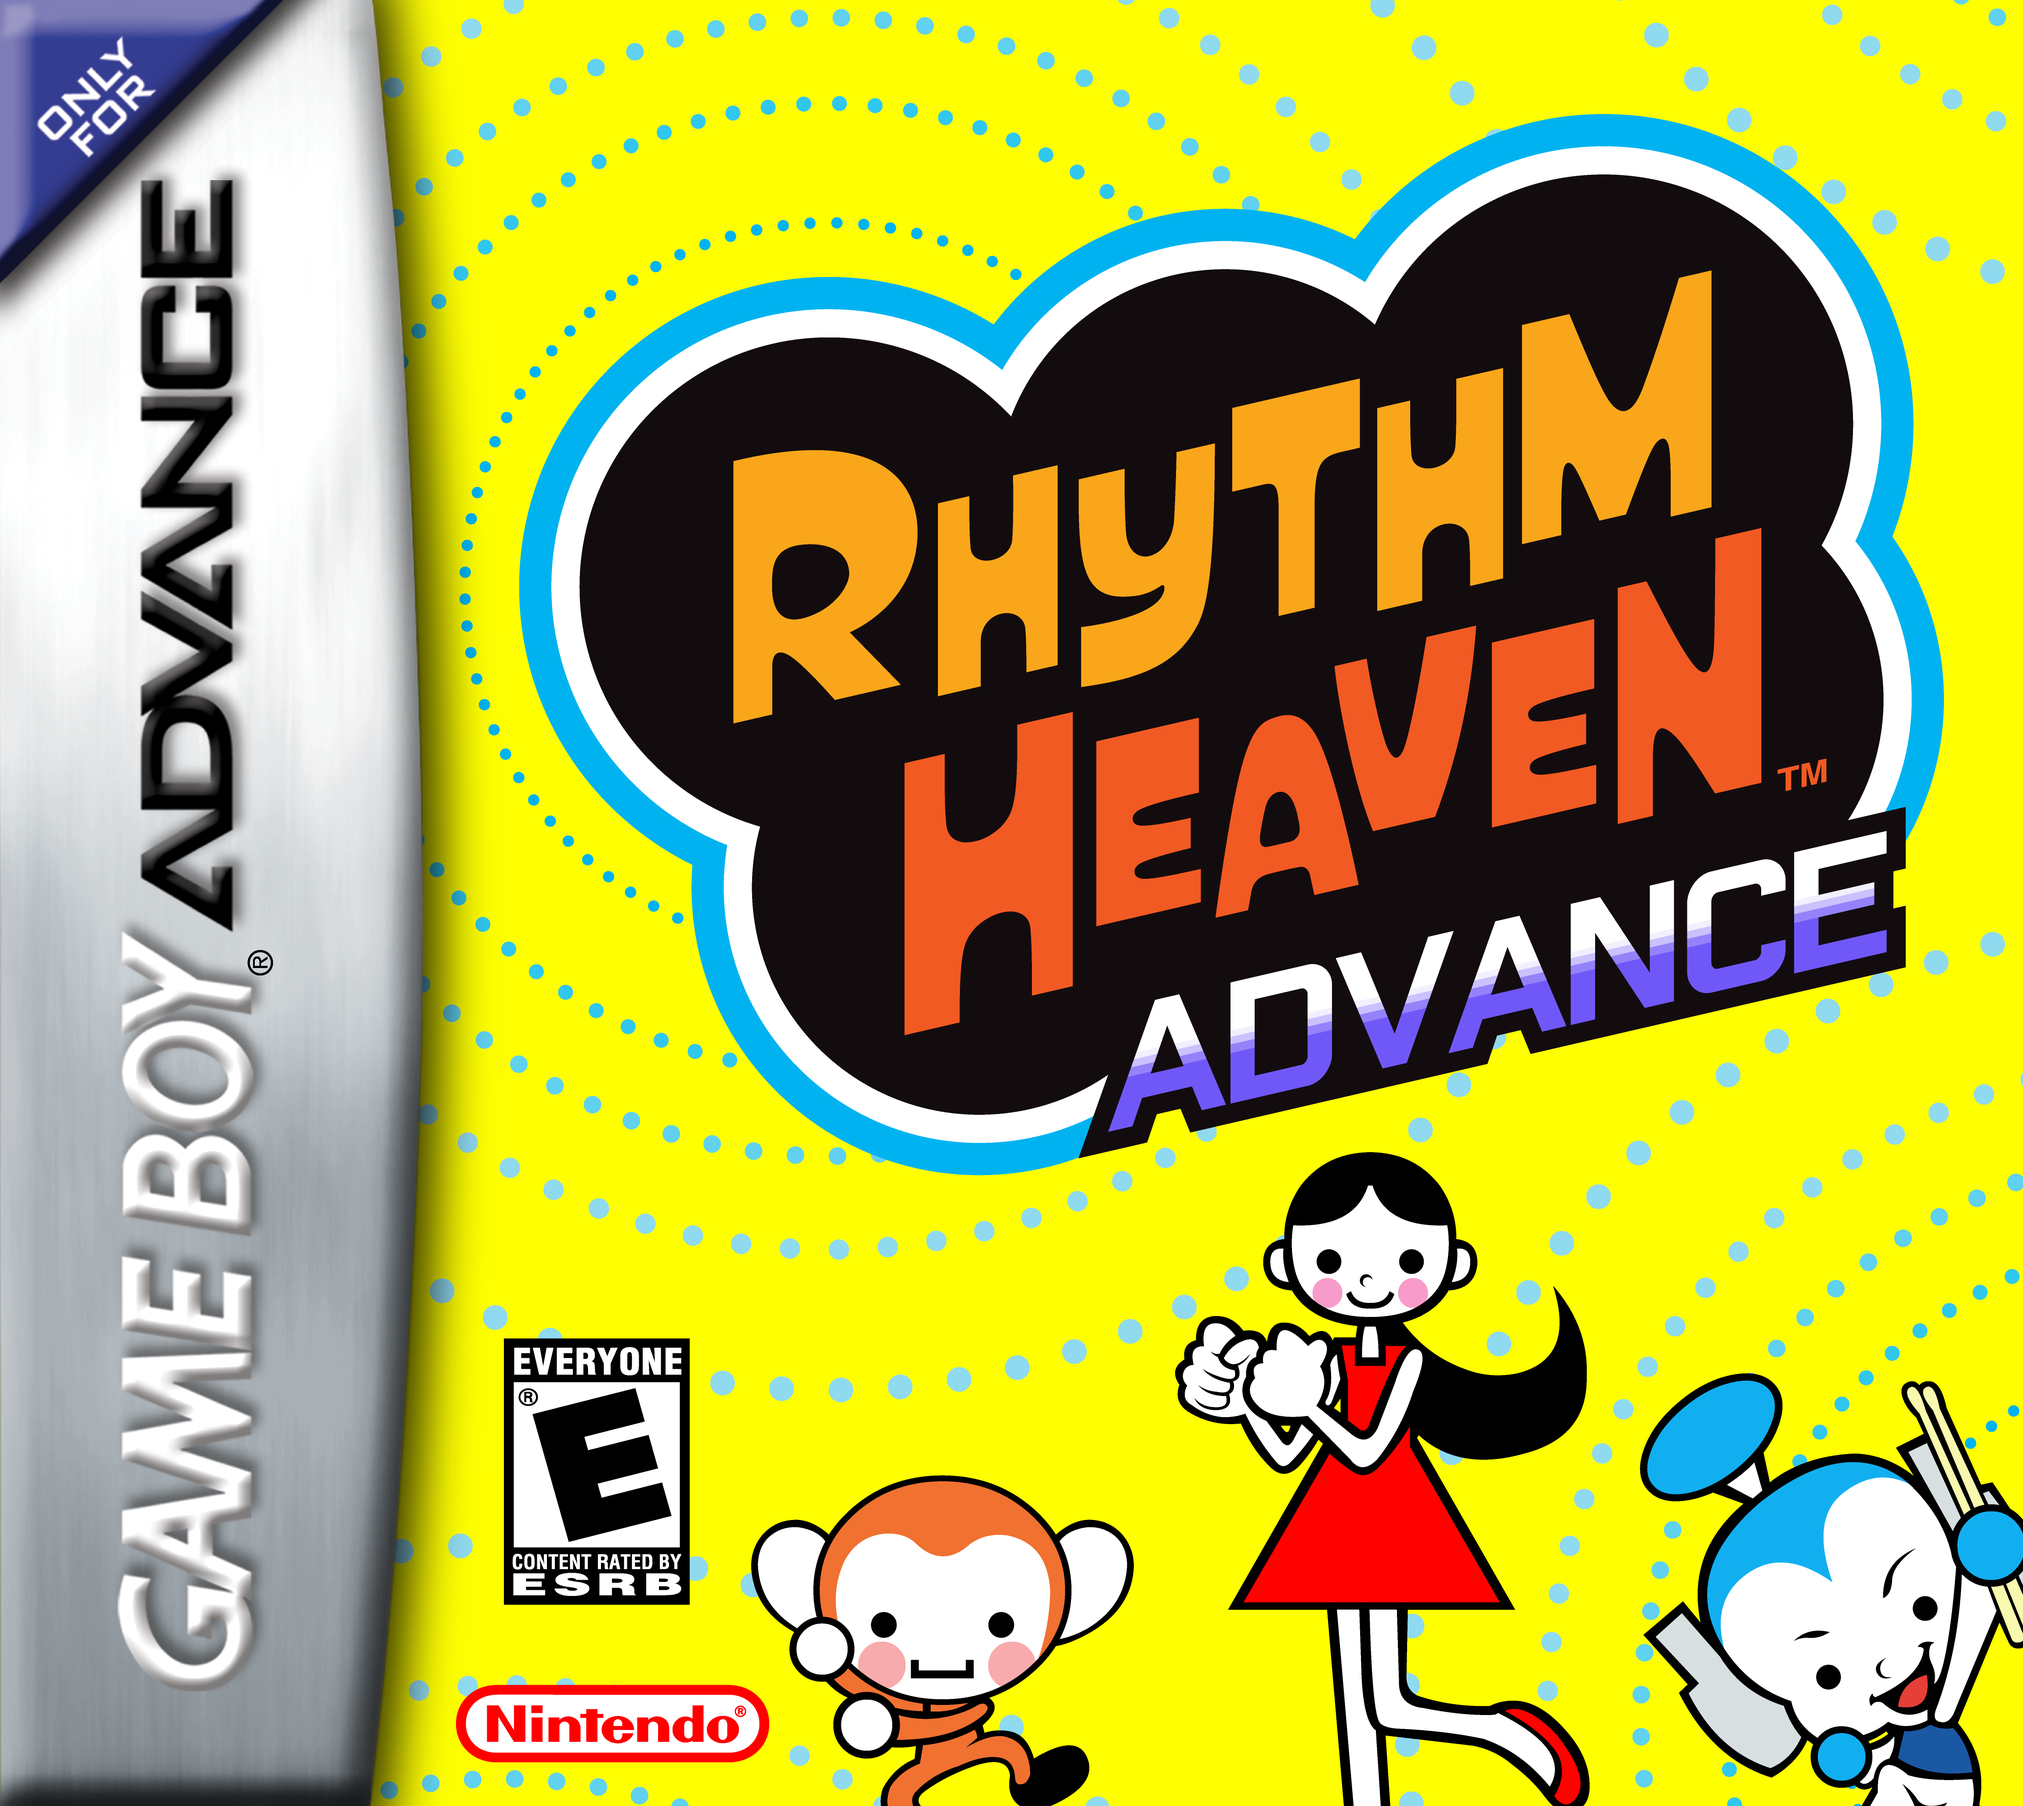
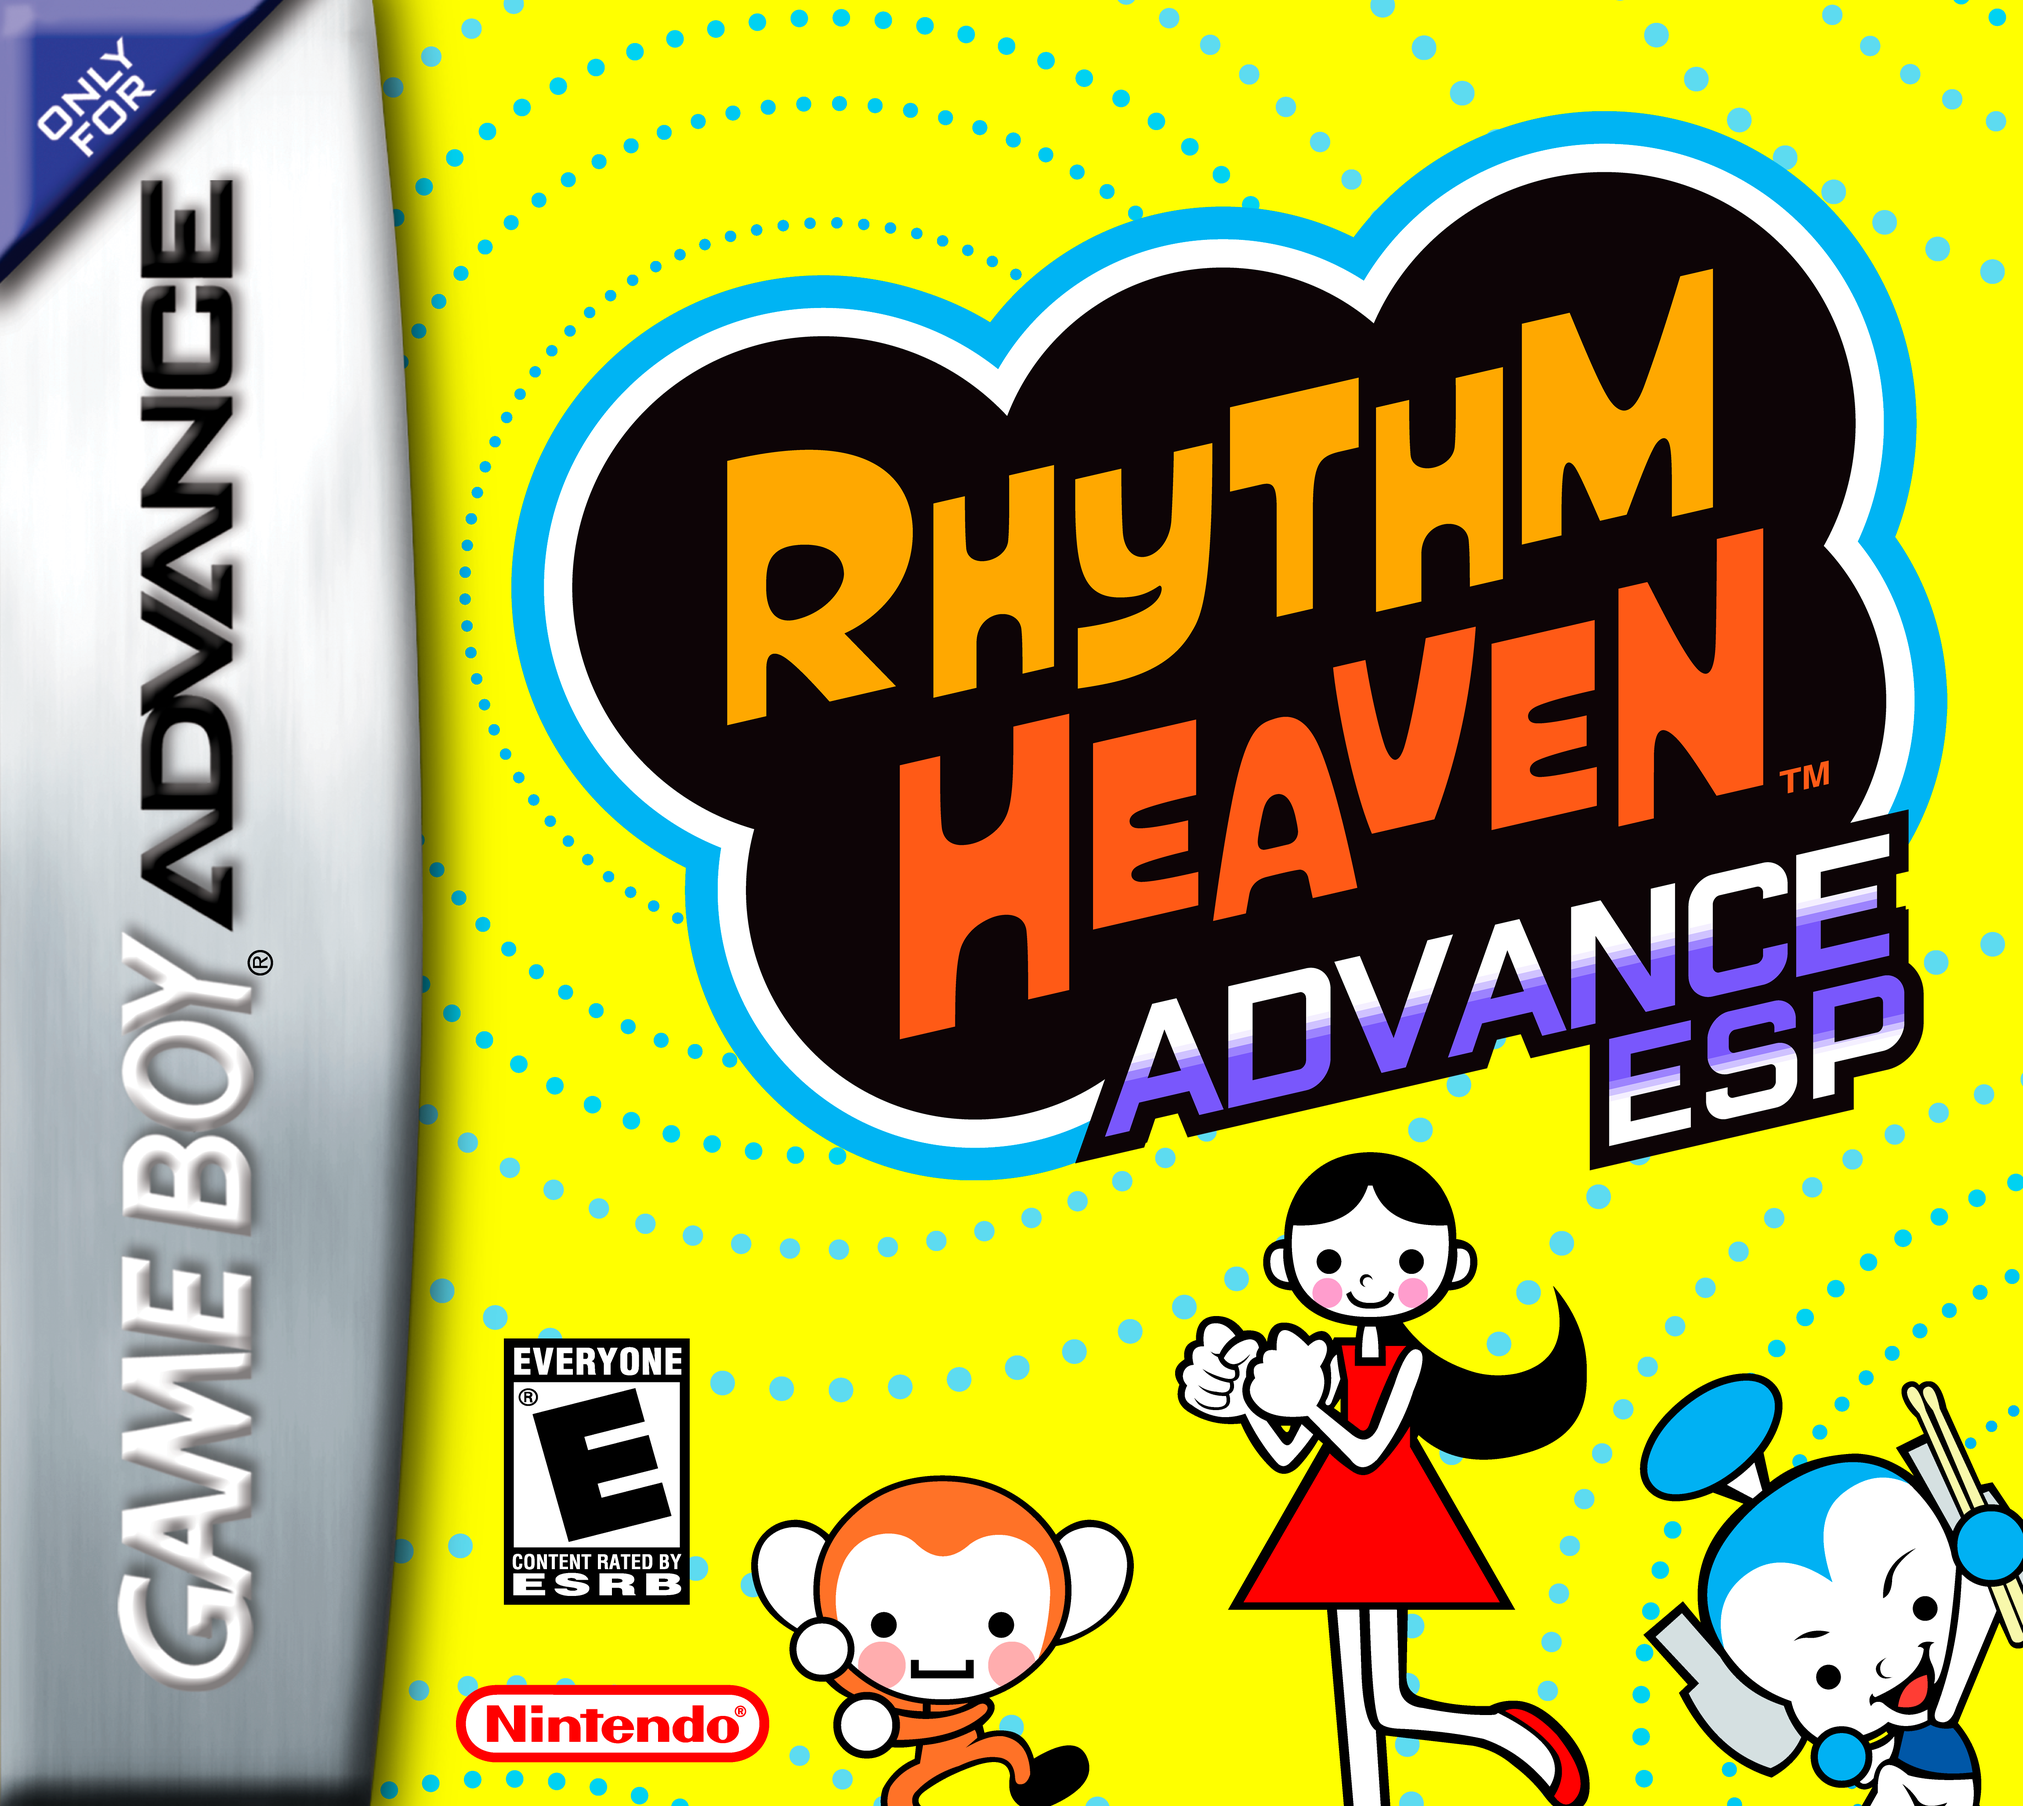
creditos y edit de la portada!!

diff --git a/CREDITS.md b/CREDITS.md
@@ -1,7 +1,8 @@
 # Creditos
 #### Esta localizacion no podria ser posible sin el arduo trabajo de parte del [Equipo de Rhythm Heaven Advance!](https://github.com/RHAdvance/RhythmHeavenAdvance)
 
-#### Unas gracias especiales a itaific, sin el no hubiera sabido todo sobre el modding de este increible juego, en serio, muchas gracias!
+#### Unas gracias especiales a [itaific](https://github.com/itaific), sin el no hubiera sabido todo sobre el modding de este increible juego, en serio, muchas gracias!
+#### Ademas, muchas gracias a [Tailx](https://github.com/Tailx501) por hacer el hermoso logo para esta traduccion! Muchas gracias!
 
 ## Bug Fixing:
 + patataofcourse
